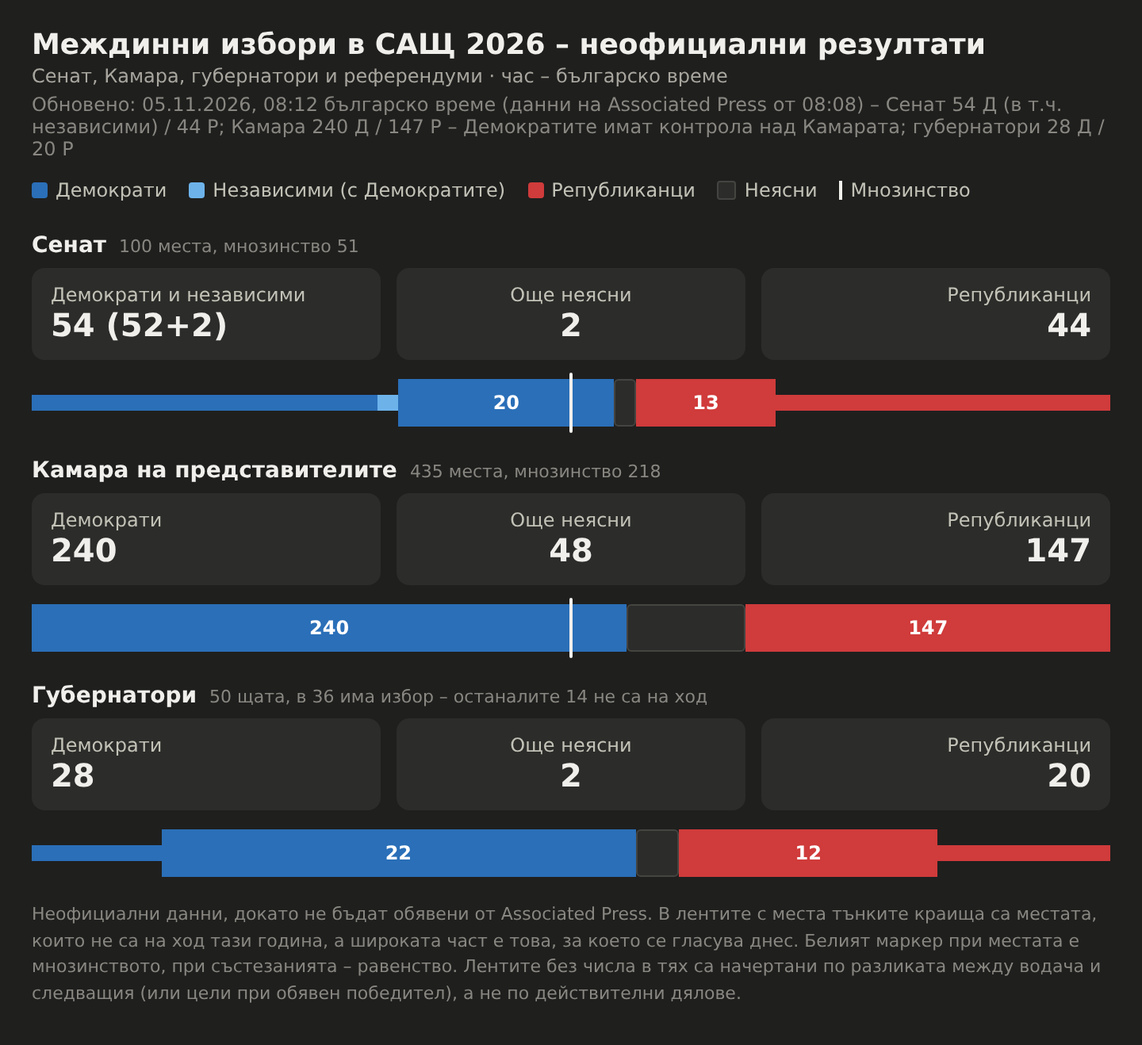
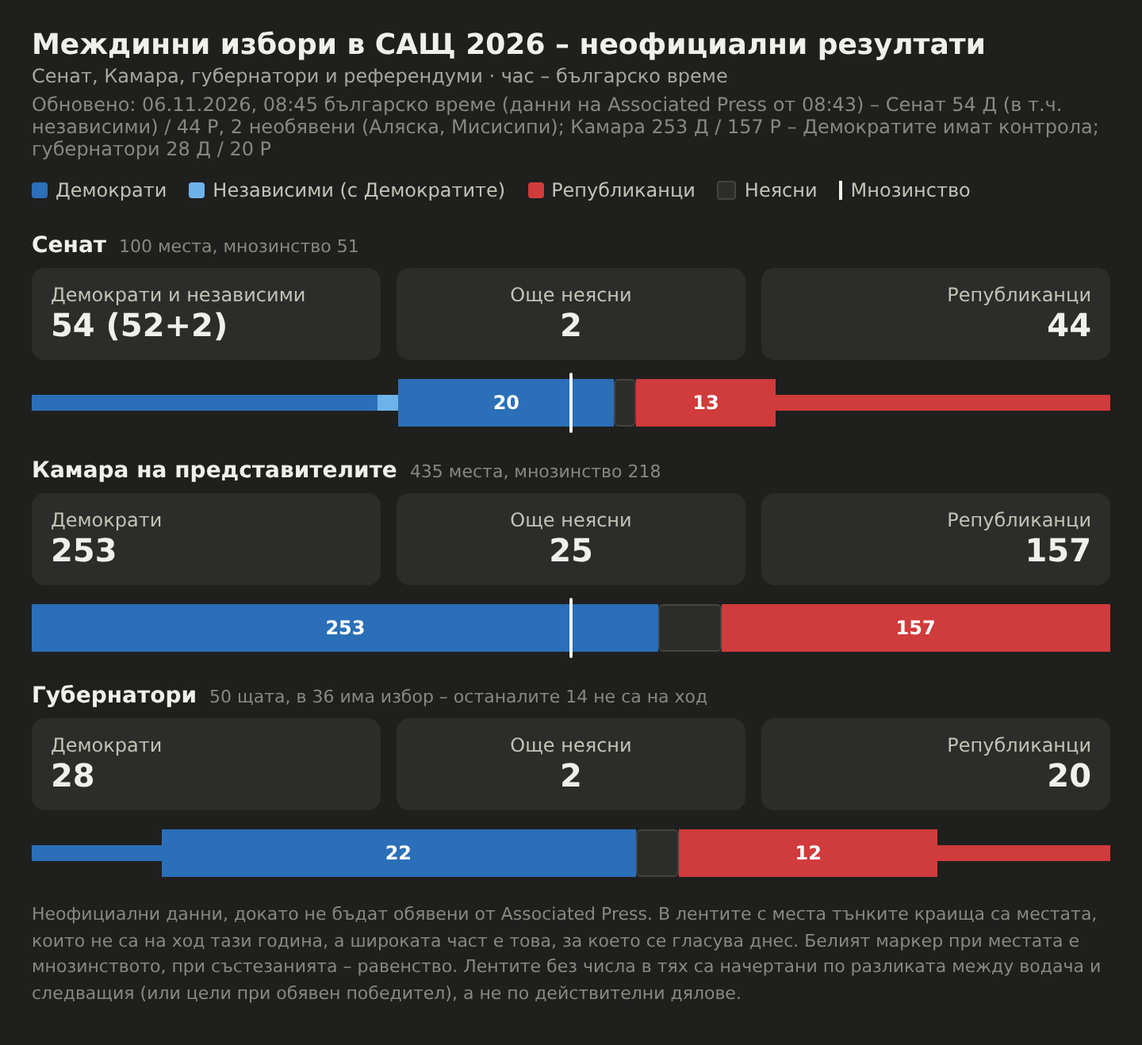
Обновяване 06.11 08:45 българско време: Камара 253–157
Claude-Session: https://claude.ai/code/session_013Bd4dyDeBGD9vdxVJ9tN9V

diff --git a/us-midterms-2026.11.03.html b/us-midterms-2026.11.03.html
@@ -53,13 +53,13 @@ h1{font-size:18px;font-weight:600;margin:0 0 2px}
 .empty{font-size:13px;color:var(--text-muted);padding:10px 0}
 .foot{font-size:11px;color:var(--text-muted);margin-top:16px;line-height:1.5}
 </style></head><body><div class="wrap">
-<h1>Междинни избори в САЩ 2026 – неофициални резултати</h1><div class="sub">Сенат, Камара, губернатори и референдуми · час – българско време</div><div class="upd">Обновено: 05.11.2026, 08:12 българско време (данни на Associated Press от 08:08) – Сенат 54 Д (в т.ч. независими) / 44 Р; Камара 240 Д / 147 Р – Демократите имат контрола над Камарата; губернатори 28 Д / 20 Р</div>
+<h1>Междинни избори в САЩ 2026 – неофициални резултати</h1><div class="sub">Сенат, Камара, губернатори и референдуми · час – българско време</div><div class="upd">Обновено: 06.11.2026, 08:45 българско време (данни на Associated Press от 08:43) – Сенат 54 Д (в т.ч. независими) / 44 Р, 2 необявени (Аляска, Мисисипи); Камара 253 Д / 157 Р – Демократите имат контрола; губернатори 28 Д / 20 Р</div>
 <div class="tabs" id="tabs"></div>
 <div id="view"></div>
 <div class="foot">Неофициални данни, докато не бъдат обявени от Associated Press. В лентите с места тънките краища са местата, които не са на ход тази година, а широката част е това, за което се гласува днес. Белият маркер при местата е мнозинството, при състезанията – равенство. Лентите без числа в тях са начертани по разликата между водача и следващия (или цели при обявен победител), а не по действителни дялове. Щракни на ред, за да видиш как се е променял или кои са окръзите на щата.</div>
 </div>
 <script>
-var DATA={"title": "Междинни избори в САЩ 2026 – неофициални резултати", "sub": "Сенат, Камара, губернатори и референдуми · час – българско време", "updated": "05.11.2026, 08:12 българско време (данни на Associated Press от 08:08) – Сенат 54 Д (в т.ч. независими) / 44 Р; Камара 240 Д / 147 Р – Демократите имат контрола над Камарата; губернатори 28 Д / 20 Р", "times": ["01:30", "02:00", "02:15", "02:30", "03:30", "03:45", "04:05", "04:15", "04:20", "04:27", "05:03", "05:34", "06:08", "06:13", "06:25", "06:42", "07:08", "07:49", "08:10", "09:14", "10:24", "11:10", "17:28", "20:17", "05.11 08:12"], "chambers": {"sen": {"tot": 100, "mj": 51, "d": [32, 32, 33, 33, 41, 41, 43, 43, 43, 43, 43, 43, 46, 47, 48, 49, 50, 50, 51, 51, 52, 52, 52, 52, 52], "i": [2, 2, 2, 2, 2, 2, 2, 2, 2, 2, 2, 2, 2, 2, 2, 2, 2, 2, 2, 2, 2, 2, 2, 2, 2], "r": [31, 31, 31, 31, 31, 32, 34, 34, 35, 35, 36, 36, 37, 37, 38, 39, 40, 41, 41, 42, 43, 44, 44, 44, 44], "base": {"d": 32, "i": 2, "r": 31}}, "hou": {"tot": 435, "mj": 218, "d": [0, 0, 3, 6, 36, 44, 60, 71, 73, 79, 102, 120, 144, 145, 152, 161, 190, 204, 210, 224, 225, 228, 228, 233, 240], "i": [0, 0, 0, 0, 0, 0, 0, 0, 0, 0, 0, 0, 0, 0, 0, 0, 0, 0, 0, 0, 0, 0, 0, 0, 0], "r": [0, 0, 1, 2, 16, 21, 29, 31, 35, 41, 58, 67, 88, 92, 95, 100, 110, 123, 126, 133, 136, 139, 139, 139, 147], "base": {"d": 0, "i": 0, "r": 0}}, "gov": {"tot": 50, "d": [6, 6, 6, 6, 11, 11, 13, 13, 14, 15, 15, 15, 18, 19, 20, 22, 24, 24, 24, 25, 26, 27, 28, 28, 28], "i": [], "r": [8, 8, 8, 8, 8, 8, 9, 10, 10, 10, 10, 10, 11, 11, 11, 11, 13, 18, 18, 19, 20, 20, 20, 20, 20], "base": {"d": 6, "i": 0, "r": 8}}}, "senate": [["Върджиния", 100, 0, null, "<b>Обявен:</b> Демократи (Уорнър)", 1, [], 1], ["Северна Каролина", 100, 0, null, "<b>Обявен:</b> Демократи (Купър; място, което сега е на Републиканците)", 1, [], 1], ["Ню Хемпшър", 100, 0, null, "<b>Обявен:</b> Демократи (Папас)", 1, [], 1], ["Флорида", 0, 100, null, "<b>Обявена:</b> Републиканци (Муди, специален избор)", 1, [], 1], ["Кентъки", 0, 100, null, "<b>Обявен:</b> Републиканци (Бар)", 1, [], 1], ["Колорадо", 100, 0, null, "<b>Обявен:</b> Демократи (Хикенлупър)", 1, [], 1], ["Ню Мексико", 100, 0, null, "<b>Обявен:</b> Демократи (Лухан)", 1, [], 1], ["Уайоминг", 0, 100, null, "<b>Обявена:</b> Републиканци (Хагеман)", 1, [], 1], ["Джорджия", 100, 0, null, "<b>Обявен:</b> Демократи (Ософ; запазва мястото си, Колинс (Р) призна поражението)", 1, []], ["Южна Каролина", 100, 0, null, "<b>Обявена:</b> Демократи (Андрюс; място, което сега е на Републиканците)", 1, [], 1], ["Охайо", 100, 0, null, "<b>Обявен:</b> Демократи (Браун, специален избор; място, което сега е на Републиканците)", 1, [], 1], ["Тексас", 100, 0, null, "<b>Обявен:</b> Демократи (Таларико; място, което сега е на Републиканците)", 1, [], 1], ["Канзас", 100, 0, null, "<b>Обявен:</b> Демократи (Хамилтън; място, което сега е на Републиканците)", 1, [], 1], ["Мичиган", 100, 0, null, "<b>Обявен:</b> Демократи (Ел-Саид; запазва демократичното място)", 1, [], 1], ["Мейн", 100, 0, null, "<b>Обявен:</b> Демократи (Джаксън; място, което сега е на Републиканците – Колинс)", 1, [], 1], ["Айова", 100, 0, null, "<b>Обявен:</b> Демократи (Турек; място, което сега е на Републиканците) – с него Демократите вземат контрола над Сената", 1, [], 1], ["Орегон", 100, 0, null, "<b>Обявен:</b> Демократи (Мъркли)", 1, [], 1], ["Алабама", 0, 100, null, "<b>Обявена:</b> Републиканци (Мур)", 1, [], 1], ["Тенеси", 0, 100, null, "<b>Обявен:</b> Републиканци (Хагърти)", 1, [], 1], ["Минесота", 100, 0, null, "<b>Обявена:</b> Демократи (Фланаган)", 1, [], 1], ["Южна Дакота", 0, 100, null, "<b>Обявена:</b> Републиканци (Раундс)", 1, [], 1], ["Аляска", 50.25, 49.75, 75, "Води: Демократи (Пелтола, под 1 пункт) – водачът пак се смени; още не е обявено", 0, [], 1], ["Айдахо", 0, 100, null, "<b>Обявен:</b> Републиканци (Риш)", 1, [], 1], ["Монтана", 0, 100, null, "<b>Обявен:</b> Републиканци (Алми)", 1, [], 1], ["Небраска", 0, 100, null, "<b>Обявен:</b> Републиканци (Рикетс)", 1, [], 1]], "gov": [["Роуд Айлънд", 100, 0, null, "<b>Обявена:</b> Демократи (Фулкс)", 1, [], 1], ["Колорадо", 100, 0, null, "<b>Обявен:</b> Демократи (Уайзър)", 1, [], 1], ["Ню Йорк", 100, 0, null, "<b>Обявена:</b> Демократи (Хокъл)", 1, [], 1], ["Уайоминг", 0, 100, null, "<b>Обявен:</b> Републиканци (Барлоу)", 1, [], 1], ["Флорида", 0, 100, null, "<b>Обявен:</b> Републиканци (Доналдс)", 1, [], 1], ["Кънектикът", 100, 0, null, "<b>Обявен:</b> Демократи (Ламонт)", 1, [], 1], ["Джорджия", 100, 0, null, "<b>Обявена:</b> Демократи (Ботъмс; място, което сега е на Републиканците)", 1, [], 1], ["Калифорния", 100, 0, null, "<b>Обявен:</b> Демократи (Бесера)", 1, [], 1], ["Айова", 100, 0, null, "<b>Обявен:</b> Демократи (Санд; място, което сега е на Републиканците)", 1, [], 1], ["Тексас", 100, 0, null, "<b>Обявена:</b> Демократи (Инохоса; място, което сега е на Републиканците)", 1, [], 1], ["Мейн", 100, 0, null, "<b>Обявена:</b> Демократи (Хана Пингри)", 1, [], 1], ["Уисконсин", 100, 0, null, "<b>Обявен:</b> Демократи (Краули)", 1, [], 1], ["Минесота", 100, 0, null, "<b>Обявен:</b> Демократи (Клобучар)", 1, [], 1], ["Хаваи", 100, 0, null, "<b>Обявен:</b> Демократи (Грийн)", 1, [], 1], ["Охайо", 100, 0, null, "<b>Обявен:</b> Демократи (смяна от Републиканци – по данни на Associated Press, видяно от потребителя; името на победителя не е проверено)", 1, [], 1], ["Тенеси", 0, 100, null, "<b>Обявен:</b> Републиканци (Блекбърн)", 1, [], 1], ["Ню Хемпшър", 0, 100, null, "<b>Обявен:</b> Републиканци (Айът)", 1, [], 1], ["Айдахо", 0, 100, null, "<b>Обявен:</b> Републиканци (Литъл)", 1, [], 1], ["Южна Каролина", 0, 100, null, "<b>Обявен:</b> Републиканци (Уилсън)", 1, [], 1], ["Върмонт", 0, 100, null, "<b>Обявен:</b> Републиканци (Скот)", 1, [], 1], ["Мичиган", 100, 0, null, "<b>Обявена:</b> Демократи (Бенсън)", 1, [], 1], ["Алабама", 0, 100, null, "<b>Обявен:</b> Републиканци (Тъбървил)", 1, [], 1], ["Аризона", 100, 0, null, "<b>Обявена:</b> Демократи (Хобс)", 1, [], 1], ["Небраска", 0, 100, null, "<b>Обявен:</b> Републиканци (Пилън)", 1, [], 1], ["Орегон", 100, 0, null, "<b>Обявена:</b> Демократи (Котек)", 1, [], 1], ["Невада", 100, 0, null, "<b>Обявен:</b> Демократи (Форд; място, което сега е на Републиканците)", 1, [], 1]], "housecontested": [["Вирджиния 1", 49.5, 50.2, 80, "Води: Републиканци", 0, []], ["Флорида 7", 49.1, 49.8, 98, "Води: Републиканци", 0, []], ["Флорида 9", 50.2, 49.8, 99, "Води: Демократи", 0, []], ["Флорида 13", 48.6, 49.5, 99, "Води: Републиканци", 0, []], ["Флорида 27", 49.8, 50.2, 95, "Води: Републиканци", 0, []], ["Вирджиния 5", 49.5, 48.8, 71, "Води: Демократи", 0, []], ["Северна Каролина 9", 51, 49, 89, "Води: Демократи", 0, []], ["Индиана 5", 52, 48, 88, "Води: Демократи", 0, []], ["Флорида 22", 52, 48, 99, "Води: Демократи", 0, []], ["Кентъки 6", 53, 43, 74, "Води: Демократи", 0, []], ["Мичиган 10", 51, 47, 11, "Води: Демократи", 0, []], ["Айова 2", 47.8, 48.7, 1, "Води: Републиканци", 0, []], ["Охайо 7", 59, 41, 43, "Води: Демократи", 0, []], ["Пенсилвания 1", 66, 34, 28, "Води: Демократи", 0, []], ["Тексас 35", 66, 34, 44, "Води: Демократи", 0, []], ["Ню Йорк 17", 57, 43, 2, "Води: Демократи", 0, []], ["Алабама 2", 38, 62, 8, "Води: Републиканци", 0, []], ["Мичиган 4", 27, 71, 1, "Води: Републиканци", 0, []]], "housestates": [], "measures": [["Мисури – Поправка 3 (аборти)", 43.7, 56.3, 73.2, "Води: Против", 0, [], 0, "Предложена поправка в конституцията на Мисури. Тя отменя правото на аборт до жизнеспособността на плода и позволява аборт само при медицинска спешност, аномалия на плода, или при изнасилване или кръвосмешение до 12-ата седмица от бременността. Забранява и лечения и операции за смяна на пола при непълнолетни."], ["Върджиния – Въпрос 1 (репродуктивни права)", 61.4, 38.6, 85.5, "Води: За", 0, [], 0, "Предложена поправка в конституцията на Върджиния. Тя създава репродуктивни права, включително право на аборт, на контрацепция и на грижи за плодовитостта. Абортът може да се регулира през третия триместър, но трябва да бъде разрешен, за да се защити животът или здравето на бременната жена или когато плодът не е жизнеспособен."], ["Върджиния – Въпрос 2 (брак)", 56.2, 43.8, 69.8, "Води: За", 0, [], 0, "Предложена поправка в конституцията на Върджиния. Тя отменя ограничението бракът да е само между мъж и жена и вместо това заявява, че на двама възрастни не може да се отказва брак заради пол, полова идентичност или раса."], ["Върджиния – Въпрос 3 (право на глас)", 55.4, 44.6, 85.7, "Води: За", 0, [], 0, "Предложена поправка в конституцията на Върджиния. Тя създава основно право да се гласува и възстановява отнетите избирателни права на осъдени за тежки престъпления, след като бъдат освободени от затвора."], ["Мисури – Предложение A (нови окръзи за Камарата)", 37.6, 62.4, 71.7, "Води: Против", 0, [], 0, "Референдум, в който гласоподавателите в Мисури решават дали да се приемат новите окръзи за Камарата на представителите на САЩ, приети от законодателите на щата през 2025 г."], ["Мериленд – Въпрос 3 (окръзи за Конгреса)", 60.0, 40.0, 62, "Води: За", 0, [], 0, "Предложена поправка в конституцията на Мериленд. Тя премахва ограниченията при прекрояването на окръзите за Конгреса. Изискването окръзите да са компактни и да уважават „природните граници“ ще важи само за окръзите на законодателния орган на щата, а не за окръзите за Конгреса."], ["Охайо – Въпрос 3 (документ със снимка)", 66.0, 34.0, 79.8, "Води: За", 0, [], 0, "Предложена поправка в конституцията на Охайо. Тя изисква държавен документ със снимка, за да се гласува лично, с изключение за религиозни убеждения. Който гласува по друг начин, трябва да представи или документ със снимка, или номер на държавен документ за самоличност."], ["Северна Каролина – Поправка SB 921 (документ със снимка)", 59.7, 40.3, 95.6, "Води: За", 0, [], 0, "Предложена поправка в конституцията на Северна Каролина. Тя изисква документ със снимка, за да се гласува по какъвто и да е начин, а не само когато се гласува лично."], ["Канзас – Поправка 1 (неграждани)", 61.3, 38.7, 73.3, "Води: За", 0, [], 0, "Предложена поправка в конституцията на Канзас. Тя забранява на неграждани да гласуват на избори."], ["Масачузетс – Въпрос 3 (отворени първични избори)", 38.6, 61.4, 24.6, "Води: Против", 0, [], 0, "Мярката премахва отделните първични избори на партиите и въвежда отворени първични избори, в които двамата с най-много гласове преминават към общите избори. Изисква и кандидатите за губернатор да бъдат в двойка с кандидат за заместник-губернатор в първичните избори."], ["Масачузетс – Въпрос 8 (марихуана)", 20.4, 79.6, 4.5, "Води: Против", 0, [], 0, "Мярката отменя законите, които позволяват законна продажба на марихуана за развлекателни цели, но не налага наказателни санкции за притежание на по-малко от две унции. Медицинската марихуана остава законна."], ["Колорадо – Поправка 81 (имиграция)", 44.2, 55.8, 62.3, "Води: Против", 0, [], 0, "Предложена поправка в конституцията на Колорадо. Тя изисква служителите на реда да уведомяват Министерството на вътрешната сигурност на САЩ, когато обвиняват хора в тежки престъпления или, при хора с предишни присъди за тежки престъпления, в което и да е престъпление, ако може да са в САЩ незаконно."], ["Колорадо – Предложение 135 (непълнолетни и смяна на пола)", 51.05, 48.95, 62, "Води: За", 0, [], 0, "Мярката забранява операции за промяна на половите белези на непълнолетни в отговор на възприеманата полова идентичност или пол на детето. Забранява и държавно финансиране за такива операции."], ["Тенеси – Поправка 2 (данъци върху имоти)", 66.2, 33.8, 71.6, "Води: За", 0, [], 0, "Предложена поправка в конституцията на Тенеси. Тя забранява на щата да налага данъци върху имоти."], ["Северна Дакота – Мярка 2 (безплатни училищни обяди)", 44.6, 55.4, 11.3, "Води: Против", 0, [], 0, "Предложена поправка в конституцията на Северна Дакота. Тя изисква държавните училища да осигуряват безплатна закуска и обяд на всички ученици."], ["Арканзас – Въпрос 1 (неграждани)", 68.2, 31.8, 75.3, "Води: За", 0, [], 1, "Предложена поправка в конституцията на Арканзас. Тя заявява, че само граждани могат да гласуват на избори на щата и местни избори."], ["Аризона – Предложение 144 (неграждани и документ за самоличност)", 43.0, 57.0, 66.9, "Води: Против", 0, [], 1, "Предложена поправка в конституцията на Аризона. Тя забранява на неграждани да гласуват, изисква държавен документ за самоличност за гласуване и забранява чужди вноски и разходи в изборите."], ["Масачузетс – Въпрос 4 (регистрация в деня на изборите)", 59.5, 40.5, 23, "Води: За", 0, [], 1, "Мярката позволява регистрация за гласуване в избирателните секции в деня на изборите и отменя изискването за регистрация поне 10 дни преди изборите."], ["Северна Дакота – Мярка 1 (60% за поправки)", 44.2, 55.8, 60.1, "Води: Против", 0, [], 1, "Предложена поправка в конституцията на Северна Дакота. Тя изисква 60% подкрепа от гласоподавателите, за да се приемат бъдещи поправки в конституцията."], ["Южна Дакота – Поправка L (60% за поправки)", 42.4, 57.6, 24, "Води: Против", 0, [], 1, "Предложена поправка в конституцията на Южна Дакота. Тя изисква 60% подкрепа от гласоподавателите, за да се приемат бъдещи поправки в конституцията."]], "foot": "Неофициални данни, докато не бъдат обявени от Associated Press. В лентите с места тънките краища са местата, които не са на ход тази година, а широката част е това, за което се гласува днес. Белият маркер при местата е мнозинството, при състезанията – равенство. Лентите без числа в тях са начертани по разликата между водача и следващия (или цели при обявен победител), а не по действителни дялове. Щракни на ред, за да видиш как се е променял или кои са окръзите на щата.", "housepickups": {"d": ["CA-1", "CA-3", "CA-22", "CA-41", "CA-48", "CO-8", "IA-1", "IA-2", "IA-3", "IN-5", "KY-6", "MI-4", "MI-7", "MI-10", "MO-2", "NC-11", "NE-2", "NJ-7", "NV-2", "OH-7", "OH-15", "PA-1", "PA-7", "PA-8", "PA-10", "TX-15", "TX-23", "UT-1", "VA-2", "WI-1", "WI-3"]}};
+var DATA={"title": "Междинни избори в САЩ 2026 – неофициални резултати", "sub": "Сенат, Камара, губернатори и референдуми · час – българско време", "updated": "06.11.2026, 08:45 българско време (данни на Associated Press от 08:43) – Сенат 54 Д (в т.ч. независими) / 44 Р, 2 необявени (Аляска, Мисисипи); Камара 253 Д / 157 Р – Демократите имат контрола; губернатори 28 Д / 20 Р", "times": ["01:30", "02:00", "02:15", "02:30", "03:30", "03:45", "04:05", "04:15", "04:20", "04:27", "05:03", "05:34", "06:08", "06:13", "06:25", "06:42", "07:08", "07:49", "08:10", "09:14", "10:24", "11:10", "17:28", "20:17", "05.11 08:12", "06.11 08:45"], "chambers": {"sen": {"tot": 100, "mj": 51, "d": [32, 32, 33, 33, 41, 41, 43, 43, 43, 43, 43, 43, 46, 47, 48, 49, 50, 50, 51, 51, 52, 52, 52, 52, 52, 52], "i": [2, 2, 2, 2, 2, 2, 2, 2, 2, 2, 2, 2, 2, 2, 2, 2, 2, 2, 2, 2, 2, 2, 2, 2, 2, 2], "r": [31, 31, 31, 31, 31, 32, 34, 34, 35, 35, 36, 36, 37, 37, 38, 39, 40, 41, 41, 42, 43, 44, 44, 44, 44, 44], "base": {"d": 32, "i": 2, "r": 31}}, "hou": {"tot": 435, "mj": 218, "d": [0, 0, 3, 6, 36, 44, 60, 71, 73, 79, 102, 120, 144, 145, 152, 161, 190, 204, 210, 224, 225, 228, 228, 233, 240, 253], "i": [0, 0, 0, 0, 0, 0, 0, 0, 0, 0, 0, 0, 0, 0, 0, 0, 0, 0, 0, 0, 0, 0, 0, 0, 0, 0], "r": [0, 0, 1, 2, 16, 21, 29, 31, 35, 41, 58, 67, 88, 92, 95, 100, 110, 123, 126, 133, 136, 139, 139, 139, 147, 157], "base": {"d": 0, "i": 0, "r": 0}}, "gov": {"tot": 50, "d": [6, 6, 6, 6, 11, 11, 13, 13, 14, 15, 15, 15, 18, 19, 20, 22, 24, 24, 24, 25, 26, 27, 28, 28, 28, 28], "i": [], "r": [8, 8, 8, 8, 8, 8, 9, 10, 10, 10, 10, 10, 11, 11, 11, 11, 13, 18, 18, 19, 20, 20, 20, 20, 20, 20], "base": {"d": 6, "i": 0, "r": 8}}}, "senate": [["Върджиния", 100, 0, null, "<b>Обявен:</b> Демократи (Уорнър)", 1, [], 1], ["Северна Каролина", 100, 0, null, "<b>Обявен:</b> Демократи (Купър; място, което сега е на Републиканците)", 1, [], 1], ["Ню Хемпшър", 100, 0, null, "<b>Обявен:</b> Демократи (Папас)", 1, [], 1], ["Флорида", 0, 100, null, "<b>Обявена:</b> Републиканци (Муди, специален избор)", 1, [], 1], ["Кентъки", 0, 100, null, "<b>Обявен:</b> Републиканци (Бар)", 1, [], 1], ["Колорадо", 100, 0, null, "<b>Обявен:</b> Демократи (Хикенлупър)", 1, [], 1], ["Ню Мексико", 100, 0, null, "<b>Обявен:</b> Демократи (Лухан)", 1, [], 1], ["Уайоминг", 0, 100, null, "<b>Обявена:</b> Републиканци (Хагеман)", 1, [], 1], ["Джорджия", 100, 0, null, "<b>Обявен:</b> Демократи (Ософ; запазва мястото си, Колинс (Р) призна поражението)", 1, []], ["Южна Каролина", 100, 0, null, "<b>Обявена:</b> Демократи (Андрюс; място, което сега е на Републиканците)", 1, [], 1], ["Охайо", 100, 0, null, "<b>Обявен:</b> Демократи (Браун, специален избор; място, което сега е на Републиканците)", 1, [], 1], ["Тексас", 100, 0, null, "<b>Обявен:</b> Демократи (Таларико; място, което сега е на Републиканците)", 1, [], 1], ["Канзас", 100, 0, null, "<b>Обявен:</b> Демократи (Хамилтън; място, което сега е на Републиканците)", 1, [], 1], ["Мичиган", 100, 0, null, "<b>Обявен:</b> Демократи (Ел-Саид; запазва демократичното място)", 1, [], 1], ["Мейн", 100, 0, null, "<b>Обявен:</b> Демократи (Джаксън; място, което сега е на Републиканците – Колинс)", 1, [], 1], ["Айова", 100, 0, null, "<b>Обявен:</b> Демократи (Турек; място, което сега е на Републиканците) – с него Демократите вземат контрола над Сената", 1, [], 1], ["Орегон", 100, 0, null, "<b>Обявен:</b> Демократи (Мъркли)", 1, [], 1], ["Алабама", 0, 100, null, "<b>Обявена:</b> Републиканци (Мур)", 1, [], 1], ["Тенеси", 0, 100, null, "<b>Обявен:</b> Републиканци (Хагърти)", 1, [], 1], ["Минесота", 100, 0, null, "<b>Обявена:</b> Демократи (Фланаган)", 1, [], 1], ["Южна Дакота", 0, 100, null, "<b>Обявена:</b> Републиканци (Раундс)", 1, [], 1], ["Аляска", 50.25, 49.75, 74, "Води: Демократи (Пелтола, под 1 пункт) – водачът пак се смени; още не е обявено", 0, [], 1], ["Айдахо", 0, 100, null, "<b>Обявен:</b> Републиканци (Риш)", 1, [], 1], ["Монтана", 0, 100, null, "<b>Обявен:</b> Републиканци (Алми)", 1, [], 1], ["Небраска", 0, 100, null, "<b>Обявен:</b> Републиканци (Рикетс)", 1, [], 1]], "gov": [["Роуд Айлънд", 100, 0, null, "<b>Обявена:</b> Демократи (Фулкс)", 1, [], 1], ["Колорадо", 100, 0, null, "<b>Обявен:</b> Демократи (Уайзър)", 1, [], 1], ["Ню Йорк", 100, 0, null, "<b>Обявена:</b> Демократи (Хокъл)", 1, [], 1], ["Уайоминг", 0, 100, null, "<b>Обявен:</b> Републиканци (Барлоу)", 1, [], 1], ["Флорида", 0, 100, null, "<b>Обявен:</b> Републиканци (Доналдс)", 1, [], 1], ["Кънектикът", 100, 0, null, "<b>Обявен:</b> Демократи (Ламонт)", 1, [], 1], ["Джорджия", 100, 0, null, "<b>Обявена:</b> Демократи (Ботъмс; място, което сега е на Републиканците)", 1, [], 1], ["Калифорния", 100, 0, null, "<b>Обявен:</b> Демократи (Бесера)", 1, [], 1], ["Айова", 100, 0, null, "<b>Обявен:</b> Демократи (Санд; място, което сега е на Републиканците)", 1, [], 1], ["Тексас", 100, 0, null, "<b>Обявена:</b> Демократи (Инохоса; място, което сега е на Републиканците)", 1, [], 1], ["Мейн", 100, 0, null, "<b>Обявена:</b> Демократи (Хана Пингри)", 1, [], 1], ["Уисконсин", 100, 0, null, "<b>Обявен:</b> Демократи (Краули)", 1, [], 1], ["Минесота", 100, 0, null, "<b>Обявен:</b> Демократи (Клобучар)", 1, [], 1], ["Хаваи", 100, 0, null, "<b>Обявен:</b> Демократи (Грийн)", 1, [], 1], ["Охайо", 100, 0, null, "<b>Обявен:</b> Демократи (смяна от Републиканци – по данни на Associated Press, видяно от потребителя; името на победителя не е проверено)", 1, [], 1], ["Тенеси", 0, 100, null, "<b>Обявен:</b> Републиканци (Блекбърн)", 1, [], 1], ["Ню Хемпшър", 0, 100, null, "<b>Обявен:</b> Републиканци (Айът)", 1, [], 1], ["Айдахо", 0, 100, null, "<b>Обявен:</b> Републиканци (Литъл)", 1, [], 1], ["Южна Каролина", 0, 100, null, "<b>Обявен:</b> Републиканци (Уилсън)", 1, [], 1], ["Върмонт", 0, 100, null, "<b>Обявен:</b> Републиканци (Скот)", 1, [], 1], ["Мичиган", 100, 0, null, "<b>Обявена:</b> Демократи (Бенсън)", 1, [], 1], ["Алабама", 0, 100, null, "<b>Обявен:</b> Републиканци (Тъбървил)", 1, [], 1], ["Аризона", 100, 0, null, "<b>Обявена:</b> Демократи (Хобс)", 1, [], 1], ["Небраска", 0, 100, null, "<b>Обявен:</b> Републиканци (Пилън)", 1, [], 1], ["Орегон", 100, 0, null, "<b>Обявена:</b> Демократи (Котек)", 1, [], 1], ["Невада", 100, 0, null, "<b>Обявен:</b> Демократи (Форд; място, което сега е на Републиканците)", 1, [], 1]], "housecontested": [["Вирджиния 1", 49.5, 50.2, 80, "Води: Републиканци", 0, []], ["Флорида 7", 49.1, 49.8, 98, "Води: Републиканци", 0, []], ["Флорида 9", 50.2, 49.8, 99, "Води: Демократи", 0, []], ["Флорида 13", 48.6, 49.5, 99, "Води: Републиканци", 0, []], ["Флорида 27", 49.8, 50.2, 95, "Води: Републиканци", 0, []], ["Вирджиния 5", 49.5, 48.8, 71, "Води: Демократи", 0, []], ["Северна Каролина 9", 51, 49, 89, "Води: Демократи", 0, []], ["Индиана 5", 52, 48, 88, "Води: Демократи", 0, []], ["Флорида 22", 52, 48, 99, "Води: Демократи", 0, []], ["Кентъки 6", 53, 43, 74, "Води: Демократи", 0, []], ["Мичиган 10", 51, 47, 11, "Води: Демократи", 0, []], ["Айова 2", 47.8, 48.7, 1, "Води: Републиканци", 0, []], ["Охайо 7", 59, 41, 43, "Води: Демократи", 0, []], ["Пенсилвания 1", 66, 34, 28, "Води: Демократи", 0, []], ["Тексас 35", 66, 34, 44, "Води: Демократи", 0, []], ["Ню Йорк 17", 57, 43, 2, "Води: Демократи", 0, []], ["Алабама 2", 38, 62, 8, "Води: Републиканци", 0, []], ["Мичиган 4", 27, 71, 1, "Води: Републиканци", 0, []]], "housestates": [], "measures": [["Мисури – Поправка 3 (аборти)", 43.7, 56.3, 73.2, "Води: Против", 0, [], 0, "Предложена поправка в конституцията на Мисури. Тя отменя правото на аборт до жизнеспособността на плода и позволява аборт само при медицинска спешност, аномалия на плода, или при изнасилване или кръвосмешение до 12-ата седмица от бременността. Забранява и лечения и операции за смяна на пола при непълнолетни."], ["Върджиния – Въпрос 1 (репродуктивни права)", 61.4, 38.6, 85.5, "Води: За", 0, [], 0, "Предложена поправка в конституцията на Върджиния. Тя създава репродуктивни права, включително право на аборт, на контрацепция и на грижи за плодовитостта. Абортът може да се регулира през третия триместър, но трябва да бъде разрешен, за да се защити животът или здравето на бременната жена или когато плодът не е жизнеспособен."], ["Върджиния – Въпрос 2 (брак)", 56.2, 43.8, 69.8, "Води: За", 0, [], 0, "Предложена поправка в конституцията на Върджиния. Тя отменя ограничението бракът да е само между мъж и жена и вместо това заявява, че на двама възрастни не може да се отказва брак заради пол, полова идентичност или раса."], ["Върджиния – Въпрос 3 (право на глас)", 55.4, 44.6, 85.7, "Води: За", 0, [], 0, "Предложена поправка в конституцията на Върджиния. Тя създава основно право да се гласува и възстановява отнетите избирателни права на осъдени за тежки престъпления, след като бъдат освободени от затвора."], ["Мисури – Предложение A (нови окръзи за Камарата)", 37.6, 62.4, 71.7, "Води: Против", 0, [], 0, "Референдум, в който гласоподавателите в Мисури решават дали да се приемат новите окръзи за Камарата на представителите на САЩ, приети от законодателите на щата през 2025 г."], ["Мериленд – Въпрос 3 (окръзи за Конгреса)", 60.0, 40.0, 62, "Води: За", 0, [], 0, "Предложена поправка в конституцията на Мериленд. Тя премахва ограниченията при прекрояването на окръзите за Конгреса. Изискването окръзите да са компактни и да уважават „природните граници“ ще важи само за окръзите на законодателния орган на щата, а не за окръзите за Конгреса."], ["Охайо – Въпрос 3 (документ със снимка)", 66.0, 34.0, 79.8, "Води: За", 0, [], 0, "Предложена поправка в конституцията на Охайо. Тя изисква държавен документ със снимка, за да се гласува лично, с изключение за религиозни убеждения. Който гласува по друг начин, трябва да представи или документ със снимка, или номер на държавен документ за самоличност."], ["Северна Каролина – Поправка SB 921 (документ със снимка)", 59.7, 40.3, 95.6, "Води: За", 0, [], 0, "Предложена поправка в конституцията на Северна Каролина. Тя изисква документ със снимка, за да се гласува по какъвто и да е начин, а не само когато се гласува лично."], ["Канзас – Поправка 1 (неграждани)", 61.3, 38.7, 73.3, "Води: За", 0, [], 0, "Предложена поправка в конституцията на Канзас. Тя забранява на неграждани да гласуват на избори."], ["Масачузетс – Въпрос 3 (отворени първични избори)", 38.6, 61.4, 24.6, "Води: Против", 0, [], 0, "Мярката премахва отделните първични избори на партиите и въвежда отворени първични избори, в които двамата с най-много гласове преминават към общите избори. Изисква и кандидатите за губернатор да бъдат в двойка с кандидат за заместник-губернатор в първичните избори."], ["Масачузетс – Въпрос 8 (марихуана)", 20.4, 79.6, 4.5, "Води: Против", 0, [], 0, "Мярката отменя законите, които позволяват законна продажба на марихуана за развлекателни цели, но не налага наказателни санкции за притежание на по-малко от две унции. Медицинската марихуана остава законна."], ["Колорадо – Поправка 81 (имиграция)", 44.2, 55.8, 62.3, "Води: Против", 0, [], 0, "Предложена поправка в конституцията на Колорадо. Тя изисква служителите на реда да уведомяват Министерството на вътрешната сигурност на САЩ, когато обвиняват хора в тежки престъпления или, при хора с предишни присъди за тежки престъпления, в което и да е престъпление, ако може да са в САЩ незаконно."], ["Колорадо – Предложение 135 (непълнолетни и смяна на пола)", 51.05, 48.95, 62, "Води: За", 0, [], 0, "Мярката забранява операции за промяна на половите белези на непълнолетни в отговор на възприеманата полова идентичност или пол на детето. Забранява и държавно финансиране за такива операции."], ["Тенеси – Поправка 2 (данъци върху имоти)", 66.2, 33.8, 71.6, "Води: За", 0, [], 0, "Предложена поправка в конституцията на Тенеси. Тя забранява на щата да налага данъци върху имоти."], ["Северна Дакота – Мярка 2 (безплатни училищни обяди)", 44.6, 55.4, 11.3, "Води: Против", 0, [], 0, "Предложена поправка в конституцията на Северна Дакота. Тя изисква държавните училища да осигуряват безплатна закуска и обяд на всички ученици."], ["Арканзас – Въпрос 1 (неграждани)", 68.2, 31.8, 75.3, "Води: За", 0, [], 1, "Предложена поправка в конституцията на Арканзас. Тя заявява, че само граждани могат да гласуват на избори на щата и местни избори."], ["Аризона – Предложение 144 (неграждани и документ за самоличност)", 43.0, 57.0, 66.9, "Води: Против", 0, [], 1, "Предложена поправка в конституцията на Аризона. Тя забранява на неграждани да гласуват, изисква държавен документ за самоличност за гласуване и забранява чужди вноски и разходи в изборите."], ["Масачузетс – Въпрос 4 (регистрация в деня на изборите)", 59.5, 40.5, 23, "Води: За", 0, [], 1, "Мярката позволява регистрация за гласуване в избирателните секции в деня на изборите и отменя изискването за регистрация поне 10 дни преди изборите."], ["Северна Дакота – Мярка 1 (60% за поправки)", 44.2, 55.8, 60.1, "Води: Против", 0, [], 1, "Предложена поправка в конституцията на Северна Дакота. Тя изисква 60% подкрепа от гласоподавателите, за да се приемат бъдещи поправки в конституцията."], ["Южна Дакота – Поправка L (60% за поправки)", 42.4, 57.6, 24, "Води: Против", 0, [], 1, "Предложена поправка в конституцията на Южна Дакота. Тя изисква 60% подкрепа от гласоподавателите, за да се приемат бъдещи поправки в конституцията."]], "foot": "Неофициални данни, докато не бъдат обявени от Associated Press. В лентите с места тънките краища са местата, които не са на ход тази година, а широката част е това, за което се гласува днес. Белият маркер при местата е мнозинството, при състезанията – равенство. Лентите без числа в тях са начертани по разликата между водача и следващия (или цели при обявен победител), а не по действителни дялове. Щракни на ред, за да видиш как се е променял или кои са окръзите на щата.", "housepickups": {"d": ["CA-1", "CA-3", "CA-22", "CA-41", "CA-48", "CO-8", "IA-1", "IA-2", "IA-3", "IN-5", "KY-6", "MI-4", "MI-7", "MI-10", "MO-2", "NC-11", "NE-2", "NJ-7", "NV-2", "OH-7", "OH-15", "PA-1", "PA-7", "PA-8", "PA-10", "TX-15", "TX-23", "UT-1", "VA-2", "WI-1", "WI-3"]}};
 var D='#2a6fb8',I='#6db3ea',R='#d03b3b',Y='#1baf7a',N='#eb6834';
 var f=function(v){return String(Math.round(v*10)/10).replace('.',',')+'%'};
 var leg=function(a,lm){return '<div class="leg">'+a.map(function(x){return '<span><i class="sw" style="background:'+x[0]+(x[2]?';border:1px solid var(--border)':'')+'"></i>'+x[1]+'</span>'}).join('')+'<span><i class="mk"></i>'+lm+'</span></div>'};
